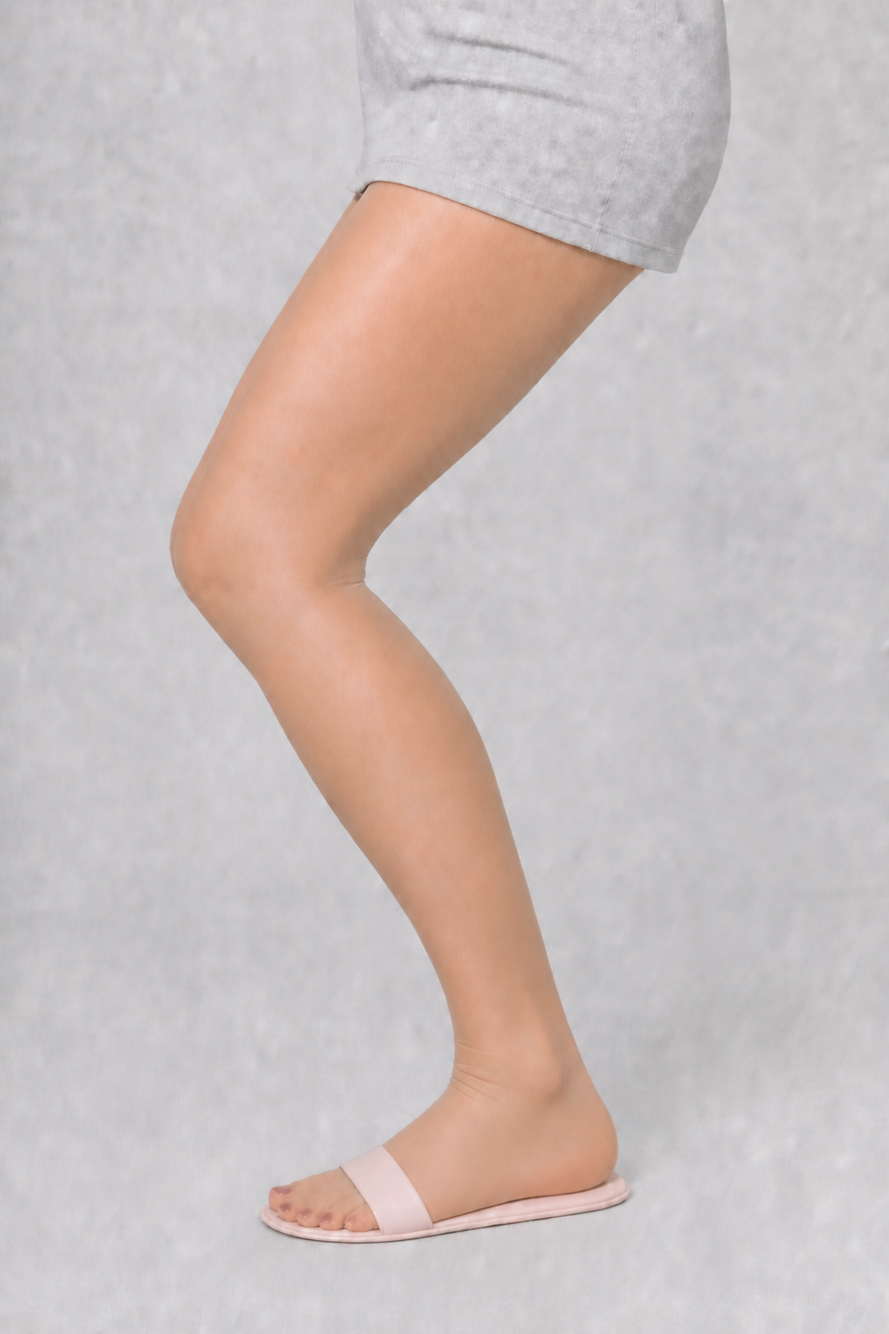
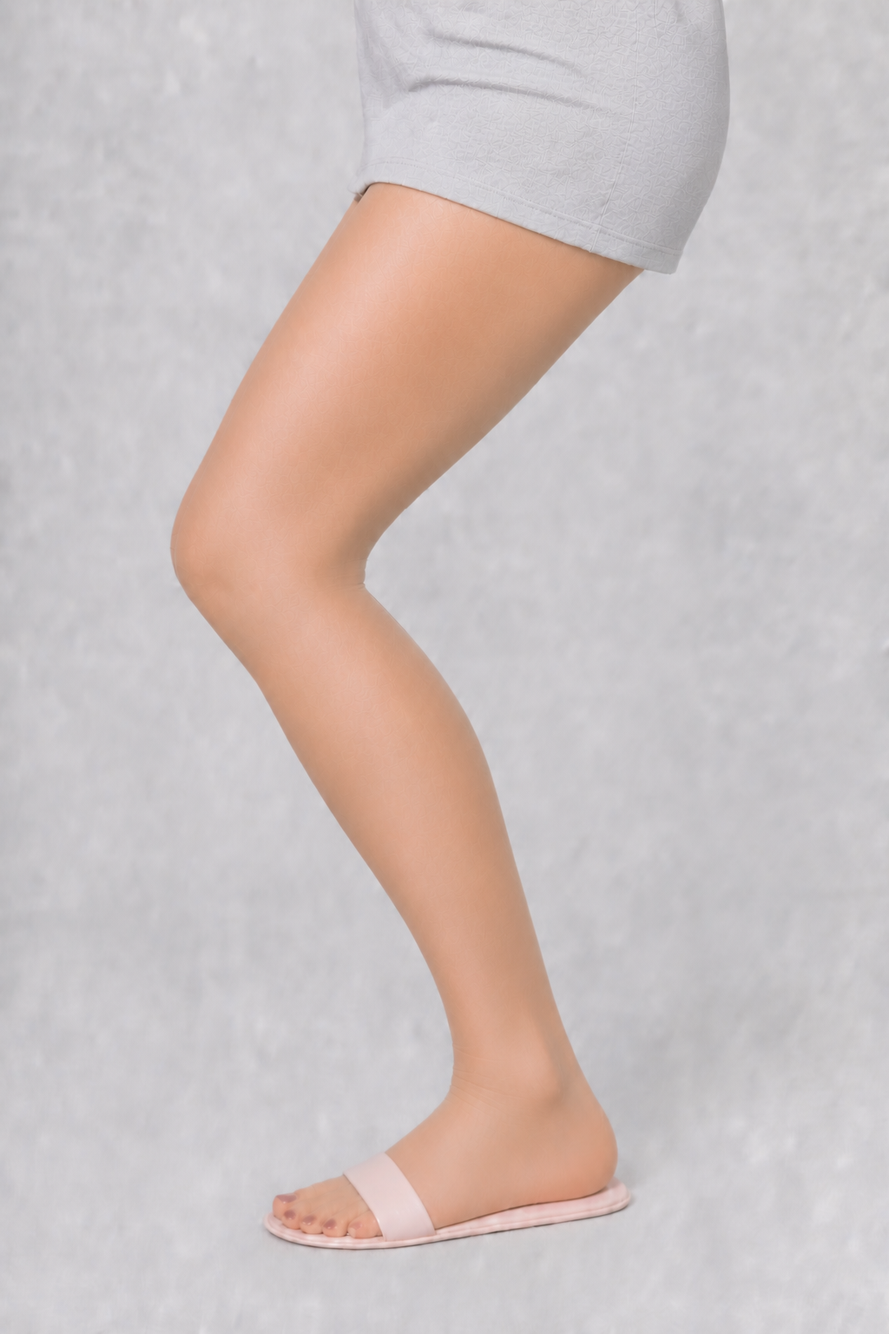
Refine hosiery asset plan and QA guidelines; update visuals and reject files
- Updated asset plan for hosiery to enhance specifications on wrinkle control and visual consistency for 30D materials.
- Revised QA criteria to clarify acceptable wrinkle patterns and compression zones during various poses.
- Added new rejected images for heavy wrinkles in half-squat and deep-squat poses to maintain quality standards.
- Updated existing visuals to reflect the latest asset specifications and ensure compliance with the refined guidelines.

diff --git a/assets/female-lead/hosiery/asset-plan.md b/assets/female-lead/hosiery/asset-plan.md
@@ -12,7 +12,7 @@
 - 袜面从脚踝连续覆盖脚背、全部脚趾和足底。
 - 趾间为一整片受横向张力的连续曲面，不陷入趾缝，不逐趾包裹。
 - 袜头前缘无可见缝合线、横线、补强带或任何连接线。
-- 褶皱按关节受力分区：提踵/跖屈时脚踝前后侧、脚背与跟腱全部贴体张紧且无可见褶皱；下蹲/背屈时只允许脚踝前侧压缩区出现少量细浅横褶，后踝保持拉伸平顺；屈膝时只允许膝窝压缩区出现少量细软褶皱，膝前保持拉伸平顺；禁止任何堆叠、袋状松弛或袜面离体。
+- 褶皱按姿势深度与 30D 轻薄尺度控制：站立、提踵/跖屈和半蹲时脚踝前后侧、脚背、膝窝与膝前均贴体平顺，不出现可辨认的织物褶皱组；全蹲时脚踝前侧只允许 2–3 条极细浅低对比纹，膝窝至多一条柔和浅线，跟腱—后踝与膝前保持平顺；禁止厚重横纹、堆叠褶、深沟槽、袋状松弛、袜面离体或近似 150D 的体积感。
 - 中性浅灰背景、标准白平衡、柔和主光加轻微侧光。
 - 脚部清晰对焦，长边不低于 2048 px；不使用景深、阴影或鞋面遮挡掩盖袜头结构。
 - 脚趾可见时逐字加入 `assets/female-lead/hosiery/closed-foot-pantyhose-toe-lock.md`。
@@ -66,11 +66,11 @@
   - 输入参考：`visuals/hosiery-nude-30d-velvet-matte-plain-none-lateral-side-standing-neutral-foot-closeup-v01.png`（初始比例与材质参考）；修复阶段以各前一版候选为单一编辑目标。
   - 生成与 QA：2026-09-01；原生输出 899 × 1750 PNG；A–F 通过，G 的结构可读性通过但长边低于 2048 px 建议值；足跟、足弓、前掌、五枚趾腹与趾端织纹连续，纯足底视角无任何甲油色块，趾间为浅弧跨接。
   - 尝试记录：`P1`、`P2` 存在深趾缝或逐趾包裹感；`P3` 虽修正趾间结构，却把甲油错误生成在趾腹，后由用户指出并按 `plantar-polish`、`anatomy`、`reference-conflict` 判定失效。`P4` 修复请求被安全过滤器拒绝；`P5` 清除甲油但重新出现深趾缝；`P6` 同时满足纯足底无甲油和连续浅弧袜面后通过。失效 `P3` 已移至 `rejected/` 隔离。
-- [x] `BASE-P01`｜`visuals/hosiery-nude-30d-velvet-matte-plain-none-lateral-side-half-squat-v01.png`｜侧面半蹲｜检查脚踝、膝前和膝窝褶皱。
-  - 提示词版本：`BASE-P01-P2`；内置 ImageGen 精确编辑；采用严格侧视、近侧单腿完整可见且远侧腿自然完全遮挡的职责单一构图；完整逐字加入更新后的 closed-foot toe lock、deep-red toenail visibility lock 与 plantar-view anatomy lock。
-  - 输入参考：`core/female-lead-body-turnaround-v1.png`（只锁定女主自然身体比例）与 `visuals/hosiery-nude-30d-velvet-matte-plain-none-top-three-quarter-standing-neutral-v01.png`（只锁定肉色 30D 天鹅绒哑光材质）；`P2` 以 `P1` 为唯一编辑目标。
-  - 生成与 QA：2026-09-01；原生输出 1024 × 1536 PNG；A–F 通过，G 的结构可读性通过但长边低于 2048 px 建议值；大腿—膝—小腿—脚踝—足部比例自然，近侧脚跟完整落地，膝前为张力平滑区、膝窝轻压缩、脚踝只有符合 30D 的细浅褶皱；背侧甲油仅隔袜朦胧可见，足底无甲油色块。
-  - 尝试记录：`P1` 的半蹲比例、材质和落跟基本正确，但远侧脚从近侧腿后孤立露出，且袜头趾间分隔偏强，按 `anatomy` 与 `toe-glove` 判定不入库；首次双腿分离修复在输出阶段被安全过滤器拒绝，未产生图片；`P2` 收敛为严格侧视遮挡并修正连续袜面后通过。
+- [x] `BASE-P01`｜`visuals/hosiery-nude-30d-velvet-matte-plain-none-lateral-side-half-squat-v01.png`｜侧面半蹲｜检查 30D 袜面在中等屈膝下仍贴体平顺、无可辨认褶皱组。
+  - 提示词版本：`BASE-P01-P4`；内置 ImageGen 精确编辑；以原 P2 为编辑目标，只移除前踝与膝窝的可见织物横纹，保持严格侧视半蹲、自然比例、落跟受力和袜头结构；完整逐字加入三段脚趾/足底硬锁。
+  - 输入参考：`visuals/hosiery-nude-30d-velvet-matte-plain-none-lateral-side-half-squat-v01.png` 的原 P2 正式版（唯一编辑目标）。
+  - 生成与 QA：2026-09-01；原生输出 1024 × 1536 PNG；A–F 通过，G 的结构可读性通过但长边低于 2048 px 建议值；大腿—膝—小腿—脚踝—足部比例与落跟姿势保持，半蹲脚踝、脚背、膝窝和膝前不再形成可数织物褶皱组，只保留自然关节曲面明暗；五趾与连续袜面通过。
+  - 尝试记录：原 `P1`、`P2` 的姿势与结构记录保留；用户进一步指出原 P2 褶皱量偏厚。`P3` 首次减量后前踝仍残留三条明显横纹，未入库；`P4` 再次局部弱化后通过。原 P2 已移入 `rejected/`。
 - [x] `BASE-P02`｜`visuals/hosiery-nude-30d-velvet-matte-plain-none-lateral-side-heel-lift-v02.png`｜侧面提踵｜检查脚背伸展、前掌受力及后踝贴合张力。
   - 提示词版本：`BASE-P02-P5`；内置 ImageGen 精确编辑；采用严格侧视、近侧单腿完整可见且远侧腿自然完全遮挡的温和日常提踵构图；完整逐字加入更新后的 closed-foot toe lock、deep-red toenail visibility lock、plantar-view anatomy lock 与后踝防松垮约束。
   - 输入参考：`visuals/hosiery-nude-30d-velvet-matte-plain-none-lateral-side-half-squat-v01.png`（锁定女主自然腿脚比例、肉色 30D 材质与摄影语言）和 `visuals/hosiery-nude-30d-velvet-matte-plain-none-lateral-side-standing-neutral-foot-closeup-v01.png`（仅辅助初始侧面脚型与袜头结构）；最终 `P5` 以 `P4` 为唯一编辑目标，只重建跟腱—后踝袜面。
@@ -105,16 +105,16 @@
   - 输入参考：`visuals/hosiery-nude-30d-velvet-matte-plain-none-lateral-side-standing-neutral-foot-closeup-v01.png`（编辑目标，锁定单脚外侧三分之四比例、中性承重、肉色 30D 材质、光照和背景）；由 `visuals/shoe-wide-band-flat-home-slide-multiview-v01.png` 裁出的严格外侧单视角临时图（只锁定浅粉宽鞋面、开放后跟和 5–6 mm 水平薄底，未作为正式资产保存）；P2 以 P1 为唯一编辑目标。
   - 生成与 QA：2026-09-01；原生输出 901 × 1746 PNG；A–F 通过，G 的结构可读性通过但长边低于 2048 px 建议值；脚跟居中落在后掌，鞋底全长贴地且保持零跟薄底，外踝—脚背—袜头纯色微织纹连续；趾间袜面跨接为浅张力弧，可见背侧甲板均有隔袜酒红甲油，趾腹与足底无甲油色块；中性站立脚踝、跟腱和脚背无松垮褶皱。
   - 尝试记录：`P1` 完成鞋履适配，鞋型、脚跟落位和脚踝贴合正确，但趾间凹陷偏深，按逐趾包裹风险不入库；`P2` 仅修复趾间连续薄膜、浅弧张力和薄底边缘后通过，未改变腿脚比例与站立物理。
-- [x] `FW-S01-Q`｜`visuals/hosiery-nude-30d-velvet-matte-plain-wide-band-flat-home-slide-lateral-side-half-squat-v01.png`｜侧面半蹲，检查脚踝、脚背、膝前和膝窝褶皱。
-  - 提示词版本：`FW-S01-Q-P1`；内置 ImageGen 精确编辑；以已批准 BASE-P01 为编辑目标，只为严格侧视的近侧脚穿上 S01 宽面薄底零跟居家拖鞋；完整逐字加入 closed-foot toe lock、deep-red toenail visibility lock、plantar-view anatomy lock，并明确半蹲时脚踝前侧与膝窝为少量细浅压缩褶皱区、膝前与跟腱—后踝为平顺张力区。
-  - 输入参考：`visuals/hosiery-nude-30d-velvet-matte-plain-none-lateral-side-half-squat-v01.png`（编辑目标，唯一锁定女主自然腿脚比例、半蹲关节角度、严格侧视遮挡、肉色 30D 材质、光照和背景）；`visuals/hosiery-nude-30d-velvet-matte-plain-wide-band-flat-home-slide-lateral-side-standing-neutral-v01.png`（辅助参考，只锁定 S01 浅粉宽鞋面、开放后跟、5–6 mm 零跟薄底、正确入鞋位置和已批准袜头结构，不覆盖目标姿势）。
-  - 生成与 QA：2026-09-01；原生输出 1024 × 1536 PNG；A–F 通过，G 的结构可读性通过但长边低于 2048 px 建议值；半蹲深度、腿脚比例与落跟受力自然，脚跟完整居中于鞋床且鞋底全长贴地；脚踝前侧保留少量细浅横褶，跟腱—后踝平顺无松垮横褶，膝窝轻压缩而膝前平滑；可见趾端由连续袜面覆盖，隔袜酒红甲油只位于真实可见背侧甲板。
-  - 尝试记录：`P1` 首轮通过，无失败候选。
-- [x] `FW-S01-D`｜`visuals/hosiery-nude-30d-velvet-matte-plain-wide-band-flat-home-slide-lateral-side-deep-squat-v01.png`｜侧面全蹲，检查深度屈膝与踝背屈时的受力、脚踝前侧细浅压缩褶皱、膝窝细软压缩褶皱，以及膝前和跟腱—后踝的平顺张力；禁止堆叠褶、袋状松弛或鞋脚错位。
-  - 提示词版本：`FW-S01-D-P2`；内置 ImageGen 精确编辑；以已批准 FW-S01-Q 为唯一编辑目标，将半蹲推进为严格侧视、脚跟完全落地的全蹲，并把构图收紧为非叙事性的下肢服装材质技术参考；完整逐字加入 closed-foot toe lock、deep-red toenail visibility lock、plantar-view anatomy lock 和全蹲褶皱分区规则。
-  - 输入参考：`visuals/hosiery-nude-30d-velvet-matte-plain-wide-band-flat-home-slide-lateral-side-half-squat-v01.png`（编辑目标，锁定女主腿脚比例、肉色 30D 材质、S01 鞋型、袜头结构、光照和背景）；首轮曾加入 `core/female-lead-body-turnaround-v1.png` 只辅助自然身体比例，但输出被安全系统拦截且未产生图片；最终 P2 不再提交该辅助图。
-  - 生成与 QA：2026-09-01；原生输出 1024 × 1536 PNG；A–F 通过，G 的结构可读性通过但长边低于 2048 px 建议值；全蹲深度清楚，近侧大腿与小腿自然接近，膝关节与踝背屈处于同一受力链；脚跟完整居中落在鞋床，鞋底全长贴地；前踝有少量细浅压缩纹、膝窝有柔和压缩线，膝前与跟腱—后踝平顺无松垮堆褶；可见趾端连续包袜，甲油只在真实可见背侧甲板下方朦胧透出。
-  - 尝试记录：`P1` 在输出阶段被安全系统误判拦截，未产生图片；`P2` 改为大腿中段至完整脚部的中性下肢技术构图并移除多余躯干描述后通过。
+- [x] `FW-S01-Q`｜`visuals/hosiery-nude-30d-velvet-matte-plain-wide-band-flat-home-slide-lateral-side-half-squat-v01.png`｜侧面半蹲，检查宽带拖鞋下 30D 袜面整体贴体平顺。
+  - 提示词版本：`FW-S01-Q-P2`；内置 ImageGen 精确编辑；以原 P1 为唯一编辑目标，只移除前踝与膝窝可见横纹，保持 S01 宽带鞋型、半蹲姿势、自然比例和袜头结构；完整逐字加入三段脚趾/足底硬锁。
+  - 输入参考：`visuals/hosiery-nude-30d-velvet-matte-plain-wide-band-flat-home-slide-lateral-side-half-squat-v01.png` 的原 P1 正式版（唯一编辑目标）。
+  - 生成与 QA：2026-09-01；原生输出 1024 × 1536 PNG；A–F 通过，G 的结构可读性通过但长边低于 2048 px 建议值；脚跟完整居中且鞋底全长贴地，半蹲前踝、后踝、膝窝与膝前无可数织物褶皱组；S01 宽带、五趾和连续袜面保持。
+  - 尝试记录：原 P1 因用户指出褶皱量偏厚而被替换，已移入 `rejected/`；`P2` 首轮减量通过。
+- [x] `FW-S01-D`｜`visuals/hosiery-nude-30d-velvet-matte-plain-wide-band-flat-home-slide-lateral-side-deep-squat-v01.png`｜侧面全蹲，检查落跟受力和不超过旧半蹲尺度的极轻量压缩纹。
+  - 提示词版本：`FW-S01-D-P3`；内置 ImageGen 精确编辑；以原 P2 为唯一编辑目标，只把前踝褶皱栈缩减为 2–3 条极细浅低对比纹并把膝窝压缩减至至多一条浅线；完整逐字加入三段脚趾/足底硬锁。
+  - 输入参考：`visuals/hosiery-nude-30d-velvet-matte-plain-wide-band-flat-home-slide-lateral-side-deep-squat-v01.png` 的原 P2 正式版（唯一编辑目标，锁定全蹲几何、自然比例、S01 鞋型、袜头、光照和背景）。
+  - 生成与 QA：2026-09-01；原生输出 1024 × 1536 PNG；A–F 通过，G 的结构可读性通过但长边低于 2048 px 建议值；全蹲姿势、自然比例、脚跟和鞋底接地保持；前踝仅余少量极细浅低对比纹，膝窝压缩极弱，膝前与跟腱—后踝平顺，无 150D 般体积感；五趾与连续袜面通过。
+  - 尝试记录：原 `P1`、`P2` 记录保留；用户指出 P2 褶皱偏厚后，P2 已移入 `rejected/`，`P3` 定向减量通过。
 
 ### S02｜窄面薄底零跟居家拖鞋
 
@@ -137,16 +137,16 @@
   - 输入参考：`visuals/hosiery-nude-30d-velvet-matte-plain-none-lateral-side-standing-neutral-foot-closeup-v01.png`（最终编辑目标，唯一锁定单脚五趾解剖、外侧三分之四比例、肉色 30D 材质、光照和背景）；由 `visuals/shoe-narrow-band-flat-home-slide-multiview-v01.png` 裁出的严格外侧单视角临时图（只锁定浅象牙粉窄带、开放后跟和薄底结构，未作为正式资产保存）。
   - 生成与 QA：2026-09-01；原生输出 899 × 1748 PNG；A–F 通过，G 的结构可读性通过但长边低于 2048 px 建议值；单脚恰好五趾且趾序、间距与甲板位置自然；袜面从小腿、脚踝、脚背到趾端保持连续均匀细密微织纹，无涂抹、融化、旋涡或局部皮肤化；脚跟居中且薄底全长贴地，中性站姿脚踝、跟腱和脚背平顺无褶皱。
   - 尝试记录：`P1` 从 FW-S01-L 改鞋后出现六趾且袜头偏裸，按 `anatomy` 与 `bare-toe` 不入库；`P2` 局部重建后仍为六趾，并产生明显袜面涂抹/融化感，用户判定不合格，已移入 `rejected/`；`P3` 从 BASE-C03 五趾基准重新开始后通过。
-- [x] `FW-S02-Q`｜`visuals/hosiery-nude-30d-velvet-matte-plain-narrow-band-flat-home-slide-lateral-side-half-squat-v01.png`｜侧面半蹲。
-  - 提示词版本：`FW-S02-Q-P3`；内置 ImageGen 精确编辑；以已批准 FW-S01-Q 为编辑目标，只把宽带鞋型改为 S02 浅象牙粉窄带，继承半蹲比例、关节角度、落跟受力和褶皱分区；后续分别校正窄带覆盖深度和可见背侧甲油；各轮均完整逐字加入三段脚趾/足底硬锁。
-  - 输入参考：`visuals/hosiery-nude-30d-velvet-matte-plain-wide-band-flat-home-slide-lateral-side-half-squat-v01.png`（编辑目标，唯一锁定半蹲腿脚比例、姿势、肉色 30D 材质、褶皱物理、光照和背景）；`visuals/hosiery-nude-30d-velvet-matte-plain-narrow-band-flat-home-slide-lateral-side-standing-neutral-v01.png`（辅助参考，只锁定 S02 窄带宽度、颜色、开放结构和袜头表现，不覆盖目标姿势）；P3 以 P2 为唯一编辑目标。
-  - 生成与 QA：2026-09-01；原生输出 1024 × 1536 PNG；A–F 通过，G 的结构可读性通过但长边低于 2048 px 建议值；半蹲比例与脚跟落地自然，S02 窄带保持 28–35 mm 受控覆盖深度；前踝只有少量细浅压缩纹，跟腱—后踝平顺无松垮横褶，膝窝轻压缩而膝前拉平；可见趾端由连续袜面覆盖，真实可见背侧甲板的酒红甲油隔袜可辨，趾腹与足底无甲油色块。
-  - 尝试记录：`P1` 姿势和褶皱正确，但鞋带过细、接近细条带，与 S02-L 不一致；`P2` 修正为 28–35 mm 窄带后，小趾侧可见甲油仍偏淡；`P3` 只增强趾端微织纹和真实可见背侧甲油后通过。
-- [x] `FW-S02-D`｜`visuals/hosiery-nude-30d-velvet-matte-plain-narrow-band-flat-home-slide-lateral-side-deep-squat-v01.png`｜侧面全蹲，检查深度屈膝与踝背屈时的落跟受力、前踝和膝窝压缩褶皱，以及膝前和跟腱—后踝的平顺张力。
-  - 提示词版本：`FW-S02-D-P2`；内置 ImageGen 精确编辑；以已批准 FW-S02-Q 为唯一编辑目标，将半蹲推进为严格侧视、脚跟完全落地的全蹲，并把构图收紧为膝上至完整脚部的中性下肢服装材质技术参考；完整逐字加入三段脚趾/足底硬锁、恰好五趾、窄带宽度和全蹲褶皱分区规则。
-  - 输入参考：`visuals/hosiery-nude-30d-velvet-matte-plain-narrow-band-flat-home-slide-lateral-side-half-squat-v01.png`（唯一编辑目标，锁定自然腿脚比例、肉色 30D 材质、S02 窄带鞋型、袜头结构、光照和背景）。
-  - 生成与 QA：2026-09-01；原生输出 1024 × 1536 PNG；A–F 通过，G 的结构可读性通过但长边低于 2048 px 建议值；全蹲深度清楚，膝深屈、胫骨前倾与踝背屈处于同一受力链；脚跟完整落在鞋床且鞋底全长贴地；前踝仅有少量细浅压缩褶皱、膝窝仅有柔和压缩线，膝前与跟腱—后踝平顺；可见单脚恰好五趾，袜面织理连续，隔袜甲油只在真实背侧甲板出现。
-  - 尝试记录：`P1` 在输出阶段被安全系统误判拦截，未产生图片；`P2` 去除躯干与髋部描述、收紧为膝上至足部的非叙事性技术构图后通过。
+- [x] `FW-S02-Q`｜`visuals/hosiery-nude-30d-velvet-matte-plain-narrow-band-flat-home-slide-lateral-side-half-squat-v01.png`｜侧面半蹲，检查窄带拖鞋下 30D 袜面整体贴体平顺。
+  - 提示词版本：`FW-S02-Q-P4`；内置 ImageGen 精确编辑；以原 P3 为唯一编辑目标，只移除前踝与膝窝可见横纹，保持 S02 窄带宽度、姿势、比例和袜头结构；完整逐字加入三段脚趾/足底硬锁。
+  - 输入参考：`visuals/hosiery-nude-30d-velvet-matte-plain-narrow-band-flat-home-slide-lateral-side-half-squat-v01.png` 的原 P3 正式版（唯一编辑目标，锁定半蹲比例、S02 窄带、袜头、光照和背景）。
+  - 生成与 QA：2026-09-01；原生输出 1024 × 1536 PNG；A–F 通过，G 的结构可读性通过但长边低于 2048 px 建议值；半蹲比例、脚跟接地和 28–35 mm S02 窄带保持；前后踝、膝窝和膝前无可数织物褶皱组；五趾、连续袜面与隔袜甲油通过。
+  - 尝试记录：原 `P1`–`P3` 记录保留；用户指出 P3 褶皱量偏厚后，P3 已移入 `rejected/`，`P4` 定向减量通过。
+- [x] `FW-S02-D`｜`visuals/hosiery-nude-30d-velvet-matte-plain-narrow-band-flat-home-slide-lateral-side-deep-squat-v01.png`｜侧面全蹲，检查落跟受力和不超过旧半蹲尺度的极轻量压缩纹。
+  - 提示词版本：`FW-S02-D-P3`；内置 ImageGen 精确编辑；以原 P2 为唯一编辑目标，只把前踝褶皱栈缩减为 2–3 条极细浅低对比纹并把膝窝压缩减至至多一条浅线；完整逐字加入三段脚趾/足底硬锁、恰好五趾与窄带宽度约束。
+  - 输入参考：`visuals/hosiery-nude-30d-velvet-matte-plain-narrow-band-flat-home-slide-lateral-side-deep-squat-v01.png` 的原 P2 正式版（唯一编辑目标，锁定全蹲几何、自然比例、S02 窄带、袜头、光照和背景）。
+  - 生成与 QA：2026-09-01；原生输出 1024 × 1536 PNG；A–F 通过，G 的结构可读性通过但长边低于 2048 px 建议值；全蹲姿势、自然比例、脚跟和鞋底接地、28–35 mm 窄带保持；前踝仅余少量极细浅低对比纹，膝窝压缩极弱，膝前与跟腱—后踝平顺，无 150D 般体积感；五趾、连续袜面与隔袜甲油通过。
+  - 尝试记录：原 `P1`、`P2` 记录保留；用户指出 P2 褶皱偏厚后，P2 已移入 `rejected/`，`P3` 定向减量通过。
 
 ### S03｜双带薄底平底拖鞋
 

diff --git a/assets/female-lead/hosiery/README.md b/assets/female-lead/hosiery/README.md
@@ -28,7 +28,7 @@
 - 袜头前缘无可见缝合线、加深横线、补强带、滚边、绳状凸起或拼接边界。
 - 袜面横向跨过相邻脚趾间隙形成柔和浅弧，不得陷入趾缝或逐趾紧贴。
 - 脚趾和甲面轮廓必须隔着织物被柔化；暗红甲油只位于脚趾背侧甲板并处于袜面下方，不得呈现裸甲边缘或直接高光，也不得出现在足底、前掌、趾腹或脚趾下侧。
-- 褶皱必须服从关节弯曲的拉伸—压缩分区：提踵或踝跖屈时，脚踝前侧、脚背和跟腱—后踝均处于贴体张紧状态，不得出现可见褶皱；下蹲或踝背屈时，只允许脚踝前侧受压形成少量细浅横褶，跟腱—后踝仍保持拉伸平顺；屈膝时，只允许膝窝受压形成少量细软褶皱，膝前袜面应被拉平。任何区域均禁止堆叠褶、袋状松弛、袜面离体或尺码过大般的松垮外观。
+- 褶皱必须服从姿势深度与肉色 30D 的轻薄尺度：中性站立、提踵/踝跖屈和半蹲均保持脚踝、脚背、膝窝、膝前及跟腱—后踝贴体平顺，不出现可辨认的织物褶皱组；全蹲时只允许脚踝前侧出现 2–3 条极细、极浅、低对比压缩纹，膝窝至多一条柔和浅线，褶皱量不得超过旧半蹲模板。任何姿势均禁止厚重横纹、堆叠褶、阴影沟槽、袋状松弛、袜面离体或近似 150D 厚袜的体积感。
 - 鞋履、姿势、花纹、厚度和光泽变化不得破坏上述结构。
 
 ## 受控属性
@@ -100,18 +100,18 @@ hosiery-{color}-{denier}d-{material}-{pattern}-{shoe-or-none}-{view}-{pose}-vNN.
 | `visuals/hosiery-nude-30d-velvet-matte-plain-none-top-three-quarter-standing-neutral-foot-closeup-v01.png` | `approved`，2026-09-01，QA 通过 | 肉色 30D、天鹅绒哑光、无花纹、完整包脚、无鞋 | 膝下至双脚高位三分之四中性站立结构特写 | 内置 ImageGen 精确编辑；`BASE-C02-P2`；以已批准 BASE-C01 为唯一编辑目标；完整加入两段脚趾硬锁 | 检查高机位下脚踝—脚背—趾尖织纹、密度与隔袜甲油连续性 | 原生 900 × 1747，低于 2048 px 长边建议；无脸部，不承担身份参考；前后脚有轻微错位，不替代正面、外侧或足底模板 |
 | `visuals/hosiery-nude-30d-velvet-matte-plain-none-lateral-side-standing-neutral-foot-closeup-v01.png` | `approved`，2026-09-01，QA 通过 | 肉色 30D、天鹅绒哑光、无花纹、完整包脚、无鞋 | 单脚外侧三分之四中性站立结构特写 | 内置 ImageGen 精确编辑；`BASE-C03-P3`；由已批准 BASE-C02 延续比例与材质，最终移除被遮挡后脚；完整加入两段脚趾硬锁 | 检查小脚趾侧、外踝、外侧足缘、无缝袜头前缘和可见足底边缘的袜面连续性 | 原生 899 × 1748，低于 2048 px 长边建议；无脸部且为单脚模板，不承担身份或双脚站姿参考；不替代正面、高位三分之四或足底模板 |
 | `visuals/hosiery-nude-30d-velvet-matte-plain-none-sole-heel-lift-v02.png` | `approved`，2026-09-01，QA 通过 | 肉色 30D、天鹅绒哑光、无花纹、完整包脚、无鞋 | 单脚纯足底抬脚结构特写 | 内置 ImageGen 精确编辑；`BASE-C04-P6`；由已批准 BASE-C03 延续比例与材质；完整加入更新后的三段脚趾/足底硬锁 | 检查足跟、足弓、前掌、趾腹、趾端的袜面连续覆盖及趾间浅弧；作为纯足底无甲油色块的正向解剖参考 | 原生 899 × 1750，低于 2048 px 长边建议；无脸部且为单脚抬脚模板，不承担身份、双脚站姿或承重参考；背侧甲板不可见，因此画面中正确地不显示甲油 |
-| `visuals/hosiery-nude-30d-velvet-matte-plain-none-lateral-side-half-squat-v01.png` | `approved`，2026-09-01，QA 通过 | 肉色 30D、天鹅绒哑光、无花纹、完整包脚、无鞋 | 严格侧视半蹲，近侧单腿完整可见、远侧腿自然完全遮挡 | 内置 ImageGen 精确编辑；`BASE-P01-P2`；身体多视角母版锁定自然比例，BASE-L02 锁定 30D 材质；修复阶段以 P1 为唯一编辑目标；完整加入更新后的三段脚趾/足底硬锁 | 检查半蹲时膝前拉伸、膝窝轻压缩、脚踝浅褶皱、足背伸展及落跟受力 | 原生 1024 × 1536，低于 2048 px 长边建议；无脸部且远侧腿被严格侧视遮挡，不承担身份、双腿错位或正面袜头参考；可见背侧甲板的甲油仅隔袜朦胧透出，足底无甲油色块 |
+| `visuals/hosiery-nude-30d-velvet-matte-plain-none-lateral-side-half-squat-v01.png` | `approved`，2026-09-01，用户纠正后 QA 通过 | 肉色 30D、天鹅绒哑光、无花纹、完整包脚、无鞋 | 严格侧视半蹲，近侧单腿完整可见、远侧腿自然完全遮挡 | 内置 ImageGen 精确编辑；`BASE-P01-P4`；以原 P2 为编辑目标，仅移除脚踝前侧与膝窝可见织物褶皱；完整加入更新后的三段脚趾/足底硬锁 | 检查半蹲时 30D 袜面整体贴体平顺、足背伸展及落跟受力 | 原生 1024 × 1536，低于 2048 px 长边建议；无脸部且远侧腿被严格侧视遮挡，不承担身份、双腿错位或正面袜头参考；关节只保留自然曲面明暗，不形成可数褶皱组；旧褶皱偏厚版本已移入 `rejected/` |
 | `visuals/hosiery-nude-30d-velvet-matte-plain-none-lateral-side-heel-lift-v02.png` | `approved`，2026-09-01，用户纠正后 QA 通过 | 肉色 30D、天鹅绒哑光、无花纹、完整包脚、无鞋 | 严格侧视温和提踵，近侧单腿完整可见、远侧腿自然完全遮挡 | 内置 ImageGen 精确编辑；`BASE-P02-P5`；以 P4 为唯一编辑目标，仅重建跟腱—后踝袜面贴合与纵向张力；完整加入更新后的三段脚趾/足底硬锁和后踝防松垮约束 | 检查提踵时小腿发力、脚背伸展、前掌与趾腹共同承重、跟腱—后踝贴体张力及足底可见边缘的袜面连续性 | 原生 1024 × 1536，低于 2048 px 长边建议；无脸部且为单腿严格侧视，不承担身份或双腿站姿参考；后踝无多层横褶或松袋感，甲油只在可见背侧甲板下方朦胧出现，足底与趾腹无甲油色块 |
 | `visuals/shoe-wide-band-flat-home-slide-multiview-v01.png` | `approved`，2026-09-01，鞋型 QA 通过 | 浅粉色、单条宽鞋面、露趾、后跟开放、5–6 mm 柔性薄底、零跟 | 同一只右脚拖鞋的高位三分之四、严格外侧、低位正面和大底四视角 | 内置 ImageGen；`FW-S01-M-P1`；无输入参考，按 S01 受控鞋型规格生成 | 人工核对宽鞋面、前后开放结构、全长水平薄底、鞋口和大底轮廓；为 S01 穿着适配图定义鞋型 | 原生 1402 × 1122，低于 2048 px 长边建议；为多格总览，只供人工检查，提交生成模型时应裁出与目标机位相同的单一视角，不直接以整张多格图作为正向参考 |
 | `visuals/hosiery-nude-30d-velvet-matte-plain-wide-band-flat-home-slide-front-standing-neutral-v01.png` | `approved`，2026-09-01，QA 通过 | 肉色 30D 天鹅绒哑光完整包脚连裤袜；浅粉色单条宽鞋面、5–6 mm 薄底零跟居家拖鞋 | 下半身正面中性站立，双脚与十趾完整入镜 | 内置 ImageGen 精确编辑；`FW-S01-F-P1`；以 BASE-L01 为编辑目标，裁取 FW-S01-M 正面单视角只约束鞋型；完整加入三段脚趾/足底硬锁与物理褶皱规则 | 检查鞋口内十趾连续袜面、隔袜甲油、双脚入鞋位置、宽鞋面和正面薄底边缘 | 原生 900 × 1747，低于 2048 px 长边建议；无脸部，不承担身份参考；正面机位不能替代高位三分之四或外侧鞋底结构模板 |
 | `visuals/hosiery-nude-30d-velvet-matte-plain-wide-band-flat-home-slide-top-three-quarter-standing-neutral-v01.png` | `approved`，2026-09-01，QA 通过 | 肉色 30D 天鹅绒哑光完整包脚连裤袜；浅粉色单条宽鞋面、5–6 mm 薄底零跟居家拖鞋 | 下半身高位三分之四中性站立，双脚前后轻微错位 | 内置 ImageGen 精确编辑；`FW-S01-T-P1`；以 BASE-L02 为编辑目标，裁取 FW-S01-M 高位三分之四单视角只约束鞋型；完整加入三段脚趾/足底硬锁与物理褶皱规则 | 检查高机位下脚踝—脚背—袜头连续性、宽鞋面遮挡、前后脚入鞋位置及薄底结构 | 原生 899 × 1748，低于 2048 px 长边建议；无脸部，不承担身份参考；后脚部分甲板受透视与鞋面自然遮挡，不替代正面十趾或外侧鞋底模板 |
 | `visuals/hosiery-nude-30d-velvet-matte-plain-wide-band-flat-home-slide-lateral-side-standing-neutral-v01.png` | `approved`，2026-09-01，QA 通过 | 肉色 30D 天鹅绒哑光完整包脚连裤袜；浅粉色单条宽鞋面、5–6 mm 薄底零跟居家拖鞋 | 单脚外侧三分之四中性站立结构特写 | 内置 ImageGen 精确编辑；`FW-S01-L-P2`；以 BASE-C03 为编辑目标，裁取 FW-S01-M 严格外侧单视角约束鞋型，再对 P1 局部修复趾间张力弧和薄底边缘；完整加入三段脚趾/足底硬锁与物理褶皱规则 | 检查小脚趾侧、外踝、脚跟入鞋位置、全长薄底边缘、宽鞋面贴合和无缝袜头前缘 | 原生 901 × 1746，低于 2048 px 长边建议；无脸部且为单脚模板，不承担身份或双脚站姿参考；外侧三分之四机位不替代纯足底或正面十趾模板 |
-| `visuals/hosiery-nude-30d-velvet-matte-plain-wide-band-flat-home-slide-lateral-side-half-squat-v01.png` | `approved`，2026-09-01，QA 通过 | 肉色 30D 天鹅绒哑光完整包脚连裤袜；浅粉色单条宽鞋面、5–6 mm 薄底零跟居家拖鞋 | 严格侧视半蹲，近侧单腿完整可见、远侧腿自然完全遮挡 | 内置 ImageGen 精确编辑；`FW-S01-Q-P1`；以已批准 BASE-P01 为编辑目标，FW-S01-L 只约束 S01 鞋型、入鞋位置与袜头结构；完整加入三段脚趾/足底硬锁和半蹲物理褶皱规则 | 检查穿拖鞋半蹲时膝前拉伸、膝窝轻压缩、脚踝前侧细浅压缩褶皱、跟腱—后踝平顺张力及落跟受力 | 原生 1024 × 1536，低于 2048 px 长边建议；无脸部且远侧腿被严格侧视遮挡，不承担身份、双腿错位或正面十趾参考；严格侧视下只要求真实可见的背侧甲板甲油可辨 |
-| `visuals/hosiery-nude-30d-velvet-matte-plain-wide-band-flat-home-slide-lateral-side-deep-squat-v01.png` | `approved`，2026-09-01，QA 通过 | 肉色 30D 天鹅绒哑光完整包脚连裤袜；浅粉色单条宽鞋面、5–6 mm 薄底零跟居家拖鞋 | 严格侧视全蹲，下肢技术构图，近侧单腿完整可见、远侧腿自然完全遮挡 | 内置 ImageGen 精确编辑；`FW-S01-D-P2`；以已批准 FW-S01-Q 为唯一编辑目标，将半蹲推进为落跟全蹲；完整加入三段脚趾/足底硬锁和深蹲物理褶皱规则 | 检查深度屈膝与踝背屈下的落跟受力、前踝细浅压缩纹、膝窝柔和压缩线、膝前与跟腱—后踝平顺张力，以及鞋脚连续性 | 原生 1024 × 1536，低于 2048 px 长边建议；仅承担下肢全蹲受力与褶皱参考，不承担脸部身份、完整躯干或双腿错位参考；严格侧视下只要求真实可见的背侧甲板甲油可辨 |
+| `visuals/hosiery-nude-30d-velvet-matte-plain-wide-band-flat-home-slide-lateral-side-half-squat-v01.png` | `approved`，2026-09-01，用户纠正后 QA 通过 | 肉色 30D 天鹅绒哑光完整包脚连裤袜；浅粉色单条宽鞋面、5–6 mm 薄底零跟居家拖鞋 | 严格侧视半蹲，近侧单腿完整可见、远侧腿自然完全遮挡 | 内置 ImageGen 精确编辑；`FW-S01-Q-P2`；以原 P1 为唯一编辑目标，只移除半蹲前踝与膝窝褶皱，保持 S01 鞋型、姿势和袜头结构；完整加入三段脚趾/足底硬锁 | 检查宽带拖鞋半蹲时全腿袜面贴体平顺、跟腱张力与落跟受力 | 原生 1024 × 1536，低于 2048 px 长边建议；无脸部且远侧腿被严格侧视遮挡，不承担身份、双腿错位或正面十趾参考；关节无可数织物褶皱组；旧褶皱偏厚版本已移入 `rejected/` |
+| `visuals/hosiery-nude-30d-velvet-matte-plain-wide-band-flat-home-slide-lateral-side-deep-squat-v01.png` | `approved`，2026-09-01，用户纠正后 QA 通过 | 肉色 30D 天鹅绒哑光完整包脚连裤袜；浅粉色单条宽鞋面、5–6 mm 薄底零跟居家拖鞋 | 严格侧视全蹲，下肢技术构图，近侧单腿完整可见、远侧腿自然完全遮挡 | 内置 ImageGen 精确编辑；`FW-S01-D-P3`；以原 P2 为唯一编辑目标，只把前踝褶皱压缩为少量极细浅低对比纹，并弱化膝窝压缩线；完整加入三段脚趾/足底硬锁 | 检查全蹲落跟受力、30D 轻量前踝压缩纹、膝前与跟腱—后踝平顺张力，以及鞋脚连续性 | 原生 1024 × 1536，低于 2048 px 长边建议；仅承担下肢全蹲受力与轻量褶皱参考；褶皱量不超过旧半蹲模板且无近似 150D 的厚重体积；旧褶皱偏厚版本已移入 `rejected/` |
 | `visuals/shoe-narrow-band-flat-home-slide-multiview-v01.png` | `approved`，2026-09-01，鞋型 QA 通过 | 浅象牙粉色、单条窄鞋面、露趾、后跟开放、5–6 mm 柔性薄底、零跟 | 同一只右脚拖鞋的高位三分之四、严格外侧、低位正面和大底四视角 | 内置 ImageGen 精确编辑；`FW-S02-M-P1`；以 FW-S01-M 为编辑目标，只收窄鞋面覆盖深度并调整为浅象牙粉色；本项无脚、无女主、无丝袜，不加入脚趾硬锁 | 人工核对窄鞋面覆盖、较大脚背开放区、前后开放结构、全长水平薄底、鞋口和大底轮廓；为 S02 穿着适配图定义鞋型 | 原生 1402 × 1122，低于 2048 px 长边建议；为多格总览，只供人工检查，提交生成模型时应裁出与目标机位相同的单一视角，不直接以整张多格图作为正向参考 |
 | `visuals/hosiery-nude-30d-velvet-matte-plain-narrow-band-flat-home-slide-front-standing-neutral-v01.png` | `approved`，2026-09-01，QA 通过 | 肉色 30D 天鹅绒哑光完整包脚连裤袜；浅象牙粉单条窄鞋面、5–6 mm 薄底零跟居家拖鞋 | 膝下至双脚正面中性站立结构特写 | 内置 ImageGen 精确编辑；`FW-S02-F-P2`；以已批准 BASE-C01 为编辑目标，裁取 FW-S02-M 低位正面单视角只约束鞋型；完整加入三段脚趾/足底硬锁与中性站立褶皱规则 | 检查窄带减少遮挡后十趾连续袜面、十枚隔袜甲油、脚背开放区、双脚入鞋位置及正面薄底边缘 | 原生 901 × 1746，低于 2048 px 长边建议；无脸部且为膝下结构特写，不承担身份或全腿比例参考；正面机位不替代高位三分之四、外侧或足底模板 |
 | `visuals/hosiery-nude-30d-velvet-matte-plain-narrow-band-flat-home-slide-lateral-side-standing-neutral-v01.png` | `approved`，2026-09-01，用户纠正后 QA 通过 | 肉色 30D 天鹅绒哑光完整包脚连裤袜；浅象牙粉单条窄鞋面、5–6 mm 薄底零跟居家拖鞋 | 单脚外侧三分之四中性站立结构特写 | 内置 ImageGen 精确编辑；`FW-S02-L-P3`；改以已批准 BASE-C03 五趾无鞋结构图为编辑目标，裁取 FW-S02-M 严格外侧单视角只约束窄带鞋型；完整加入三段脚趾/足底硬锁、恰好五趾和袜面防涂抹约束 | 检查恰好五趾、均匀细密袜面、窄带下小脚趾侧、外踝、脚背开放区、脚跟入鞋、薄底边缘和无缝袜头前缘 | 原生 899 × 1748，低于 2048 px 长边建议；无脸部且为单脚模板，不承担身份或双脚站姿参考；外侧三分之四机位不替代正面十趾或足底模板；先前六趾且袜面涂抹的版本已移入 `rejected/`，禁止作为正向参考 |
-| `visuals/hosiery-nude-30d-velvet-matte-plain-narrow-band-flat-home-slide-lateral-side-half-squat-v01.png` | `approved`，2026-09-01，QA 通过 | 肉色 30D 天鹅绒哑光完整包脚连裤袜；浅象牙粉单条窄鞋面、5–6 mm 薄底零跟居家拖鞋 | 严格侧视半蹲，近侧单腿完整可见、远侧腿自然完全遮挡 | 内置 ImageGen 精确编辑；`FW-S02-Q-P3`；以已批准 FW-S01-Q 为编辑目标，FW-S02-L 只约束窄带鞋型，随后分别修复带宽一致性与趾端甲油可见性；完整加入三段脚趾/足底硬锁和半蹲物理褶皱规则 | 检查窄带拖鞋半蹲时前踝细浅压缩褶皱、后踝平顺张力、膝窝轻压缩、膝前拉伸及落跟受力 | 原生 1024 × 1536，低于 2048 px 长边建议；无脸部且远侧腿被严格侧视遮挡，不承担身份、双腿错位或正面十趾参考；严格侧视下只要求真实可见的背侧甲板甲油可辨 |
-| `visuals/hosiery-nude-30d-velvet-matte-plain-narrow-band-flat-home-slide-lateral-side-deep-squat-v01.png` | `approved`，2026-09-01，QA 通过 | 肉色 30D 天鹅绒哑光完整包脚连裤袜；浅象牙粉单条窄鞋面、5–6 mm 薄底零跟居家拖鞋 | 严格侧视全蹲，下肢技术构图，近侧单腿完整可见、远侧腿完全遮挡 | 内置 ImageGen 精确编辑；`FW-S02-D-P2`；以已批准 FW-S02-Q 为唯一编辑目标，将半蹲推进为落跟全蹲；完整加入三段脚趾/足底硬锁、恰好五趾和全蹲褶皱物理约束 | 检查深度屈膝与踝背屈下的落跟受力、前踝细浅压缩褶皱、膝窝柔和压缩线、膝前与跟腱—后踝平顺张力，以及窄带鞋脚连续性 | 原生 1024 × 1536，低于 2048 px 长边建议；仅承担下肢全蹲受力与褶皱参考，不承担脸部身份、完整躯干或双腿错位参考；严格侧视下只要求真实可见的背侧甲板甲油可辨 |
+| `visuals/hosiery-nude-30d-velvet-matte-plain-narrow-band-flat-home-slide-lateral-side-half-squat-v01.png` | `approved`，2026-09-01，用户纠正后 QA 通过 | 肉色 30D 天鹅绒哑光完整包脚连裤袜；浅象牙粉单条窄鞋面、5–6 mm 薄底零跟居家拖鞋 | 严格侧视半蹲，近侧单腿完整可见、远侧腿自然完全遮挡 | 内置 ImageGen 精确编辑；`FW-S02-Q-P4`；以原 P3 为唯一编辑目标，只移除前踝与膝窝可见褶皱，保持 S02 窄带、姿势与袜头结构；完整加入三段脚趾/足底硬锁 | 检查窄带拖鞋半蹲时全腿袜面贴体平顺、跟腱张力及落跟受力 | 原生 1024 × 1536，低于 2048 px 长边建议；无脸部且远侧腿被严格侧视遮挡，不承担身份、双腿错位或正面十趾参考；关节无可数织物褶皱组；旧褶皱偏厚版本已移入 `rejected/` |
+| `visuals/hosiery-nude-30d-velvet-matte-plain-narrow-band-flat-home-slide-lateral-side-deep-squat-v01.png` | `approved`，2026-09-01，用户纠正后 QA 通过 | 肉色 30D 天鹅绒哑光完整包脚连裤袜；浅象牙粉单条窄鞋面、5–6 mm 薄底零跟居家拖鞋 | 严格侧视全蹲，下肢技术构图，近侧单腿完整可见、远侧腿完全遮挡 | 内置 ImageGen 精确编辑；`FW-S02-D-P3`；以原 P2 为唯一编辑目标，只把前踝褶皱压缩为少量极细浅低对比纹，并弱化膝窝压缩线；完整加入三段脚趾/足底硬锁和恰好五趾约束 | 检查全蹲落跟受力、30D 轻量前踝压缩纹、膝前与跟腱—后踝平顺张力，以及窄带鞋脚连续性 | 原生 1024 × 1536，低于 2048 px 长边建议；仅承担下肢全蹲受力与轻量褶皱参考；褶皱量不超过旧半蹲模板且无近似 150D 的厚重体积；旧褶皱偏厚版本已移入 `rejected/` |
 
 后续每项至少记录：文件路径、状态、颜色、厚度、材质、花纹、鞋型、视角、姿势、生成提示词版本、输入参考、QA 日期、推荐用途和已知限制。

diff --git a/assets/female-lead/hosiery/qa.md b/assets/female-lead/hosiery/qa.md
@@ -43,9 +43,9 @@
 ## E｜姿势、褶皱与花纹
 
 - 提踵或踝跖屈时，脚踝前侧、脚背及跟腱—后踝袜面均应贴体张紧，不出现可见褶皱；不得为了表现动作而在后踝添加横纹。
-- 下蹲或踝背屈时，脚踝前侧属于压缩区，可出现少量方向正确的细浅横褶；跟腱—后踝属于拉伸区，应保持平顺无堆褶。
-- 屈膝时，膝窝属于压缩区，可出现少量细软褶皱；膝前和膝盖骨表面属于拉伸区，应平顺贴体。
-- 褶皱的数量、深度与密度必须符合肉色 30D：压缩区只允许少量细浅纹，任何区域都不得出现堆叠褶、袋状松弛、袜面离体或尺码过大般的松垮感。
+- 半蹲虽有轻度踝背屈与屈膝，但肉色 30D 应保持脚踝前后侧、脚背、膝窝和膝前视觉平顺；允许正常关节曲面明暗，不允许出现可数的织物横纹、沟槽或褶皱组。
+- 全蹲时脚踝前侧只允许 2–3 条极细、极浅、低对比且近乎贴平的压缩纹，膝窝至多一条柔和浅线；跟腱—后踝、脚背、膝前和膝盖骨表面仍应平顺贴体。
+- 褶皱的数量、深度与密度必须符合肉色 30D：全蹲的总褶皱量不得超过旧半蹲模板；任何姿势都不得出现厚重横纹、堆叠褶、深阴影沟槽、袋状松弛、袜面离体或近似 150D 厚袜的体积感。
 - 10D、15D 以密度和光泽变化为主；30D、50D 可有少量细软褶皱；80D、100D 才允许更明显的柔软体积褶皱。
 - 花纹与高光随曲面和褶皱连续变形，不断裂、不漂移、不产生分趾错觉。
 
@@ -80,7 +80,7 @@
 - `plantar-polish`：甲油色块错误出现在足底、前掌、趾腹或其他跖面。
 - `shoe-contact`：鞋脚位置、遮挡或受力错误。
 - `wrinkle-physics`：褶皱与厚度或受力不符。
-- `ankle-slack`：提踵/跖屈时脚踝任一区域出现可见褶皱，或下蹲/背屈时跟腱—后踝出现横褶、堆叠、袋状松弛或袜面离体。
+- `ankle-slack`：站立、提踵/跖屈或半蹲时脚踝任一区域出现可辨认的织物褶皱，或全蹲时前踝超过 2–3 条极细浅纹，或任一下蹲/背屈姿势的跟腱—后踝出现横褶、堆叠、袋状松弛或袜面离体。
 - `anatomy`：脚趾数量、脚型或身体连接错误。
 - `identity-drift`：参考图改变女主身份或身体比例。
 - `reference-conflict`：图片混入冲突材质、场景或多格结构，不适合作为正向参考。
